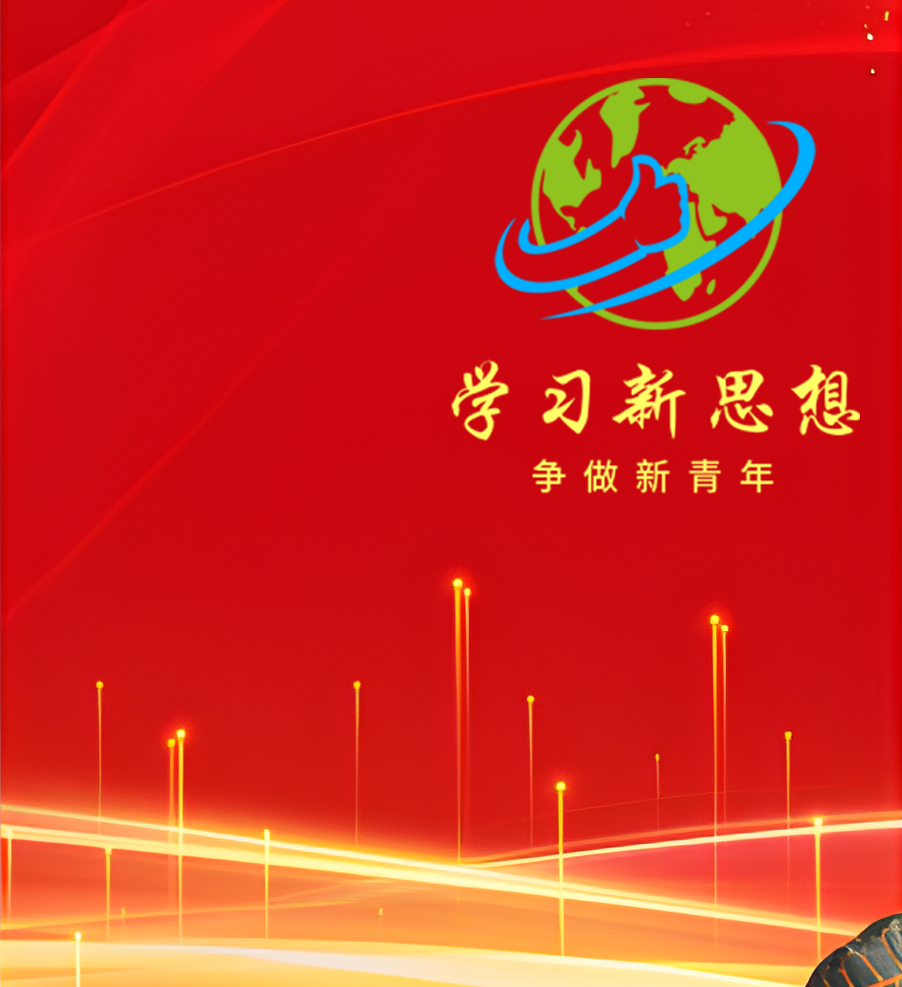
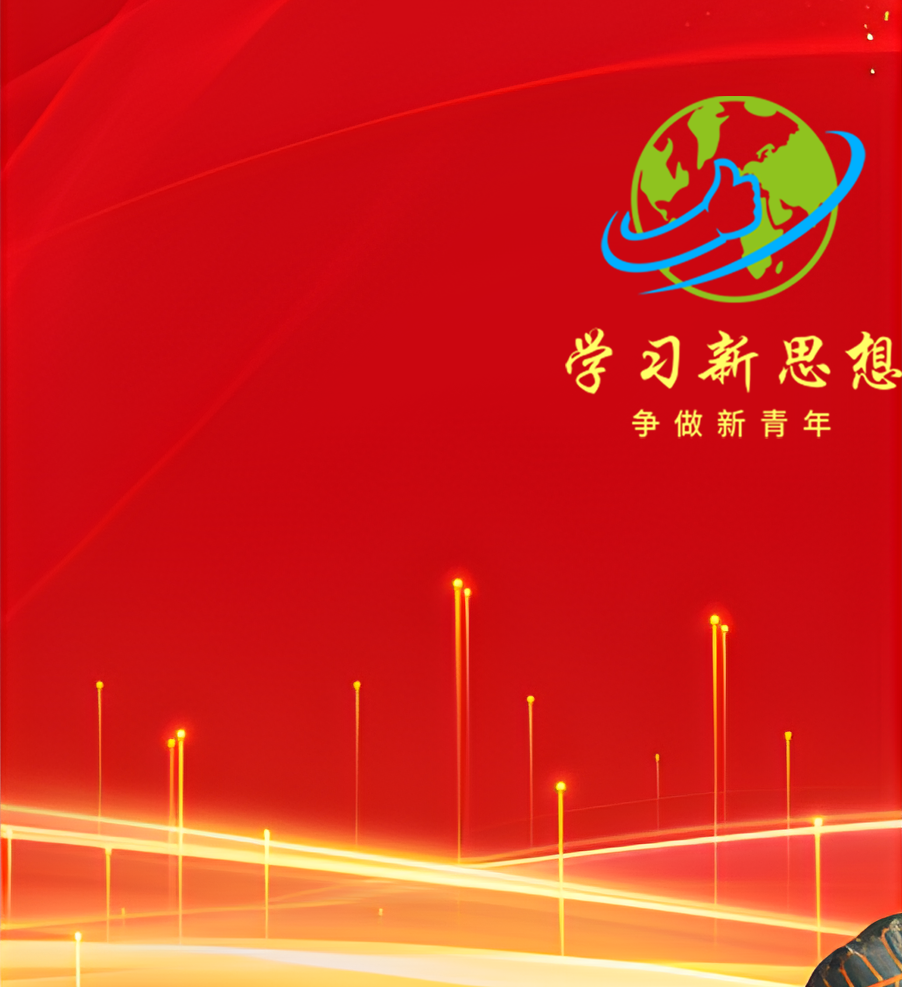
修复获取不了答案的bug，修改排版

Changed region(s): [[0.5277, 0.0608, 1.0, 0.5167], [0.4967, 0.3647, 0.5588, 0.4559]]

diff --git a/nonebot_plugin_youthstudy/getdata.py b/nonebot_plugin_youthstudy/getdata.py
@@ -47,45 +47,56 @@ async def parse_html(uri):
                         if div == "\n":
                             continue
                         answer = []
-                        for i in div.find_all("div"):
-                            check = i.get("data-a")
-                            if check is not None:
-                                answer.append(check)
+                        if div.name == "div":
+                            for i in div.find_all("div"):
+                                check = i.get("data-a")
+                                if check is not None:
+                                    answer.append(check)
 
-                        if len(answer) > 4:
-                            answer = answer[:int(len(answer) / 2)]
-                        tmp.append(answer)
+                            if len(answer) > 4:
+                                answer = answer[:int(len(answer) / 2)]
+                            tmp.append(answer)
                     field = "required"
-                    out = True
+                    req_end = 0
+                    flag = {"location": 0, "result": True}
                     for i, v in enumerate(tmp):
-                        if out and len(v) == 0 and i > 0 and len(tmp[i - 1]) != 0:
+                        if len(v) == 0:
+                            req_end = i + 1
+                        elif flag["result"]:
+                            flag["result"] = False
+                            flag["location"] = i
+                    for i, v in enumerate(tmp):
+                        if flag["location"] < req_end and i < req_end:
+                            answer_attrs[field].append(v)
+                        elif flag["location"] == req_end and i >= req_end:
                             field = "optional"
-                            out = False
-                            continue
-                        if len(v) != 0:
                             answer_attrs[field].append(v)
 
                     # process
-                    output = ""
+                    output = []
                     if len(answer_attrs["required"]) > 0:
-                        output += "本期答案\n"
+                        output.append("本期答案\n")
                         for i, v in enumerate(answer_attrs["required"]):
                             checks = ""
                             for j, v2 in enumerate(v):
                                 if v2 == "1":
                                     checks += option[j]
-                            output += template.format(num=i + 1, check=checks)
-                            output += "\n"
+                            output.append(template.format(num=i + 1, check=checks) + "\n")
                     if len(answer_attrs["optional"]) != 0:
-                        output += "课外习题\n"
+                        output.append("课外习题\n")
                         for i, v in enumerate(answer_attrs["optional"]):
                             checks = ""
                             for j, v2 in enumerate(v):
                                 if v2 == "1":
                                     checks += option[j]
-                            output += template.format(num=i + 1, check=checks)
-                            output += "\n"
-                    return output
+                            output.append(template.format(num=i + 1, check=checks) + "\n")
+                    result = [output[0]]
+                    for i, v in enumerate(output):
+                        if i % 13 != 0 and i != 0:
+                            result[int(i/13)] += v
+                        elif i % 13 == 0 and i != 0:
+                            result.append(v)
+                    return result
             else:
                 raise f"请求失败{res.status_code}"
         except Exception as e:

diff --git a/nonebot_plugin_youthstudy/convert_pic.py b/nonebot_plugin_youthstudy/convert_pic.py
@@ -24,8 +24,11 @@ async def convert_pic(text):
         period += i + f"\n"
     draw.multiline_text((10, 10), title, fill='gold', font=size(55))
     draw.multiline_text((100, 80), period, fill='gold', font=size(50))
-    draw.multiline_text((250, 40), text["answer"], fill='gold', font=size(40))
-    draw.multiline_text((250, 700), text["end_time"], fill='gold', font=size(40))
+    j = 0
+    for i in text["answer"]:
+        draw.multiline_text((200 + j * 150, 40 if j == 0 else 90), i, fill='gold', font=size(40))
+        j += 1
+    draw.multiline_text((200, 700), text["end_time"], fill='gold', font=size(40))
     buf = BytesIO()
     img.save(buf, format="PNG")
     base64_str = base64.b64encode(buf.getbuffer()).decode()
